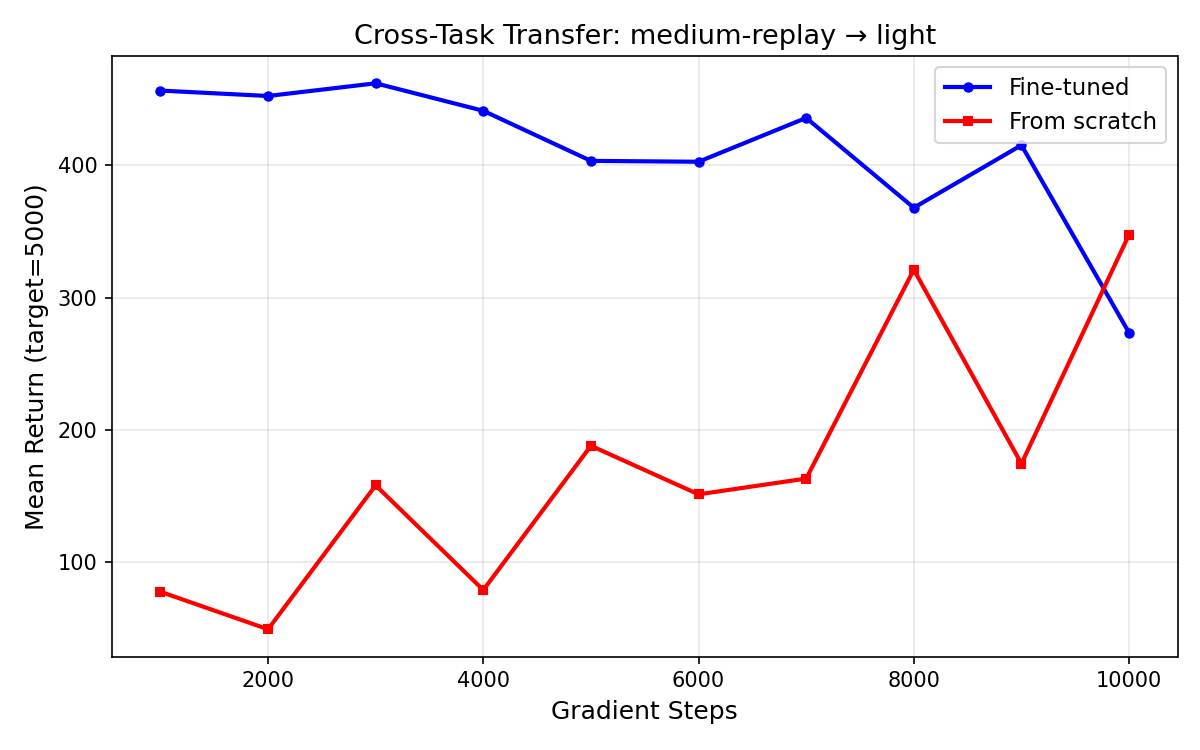
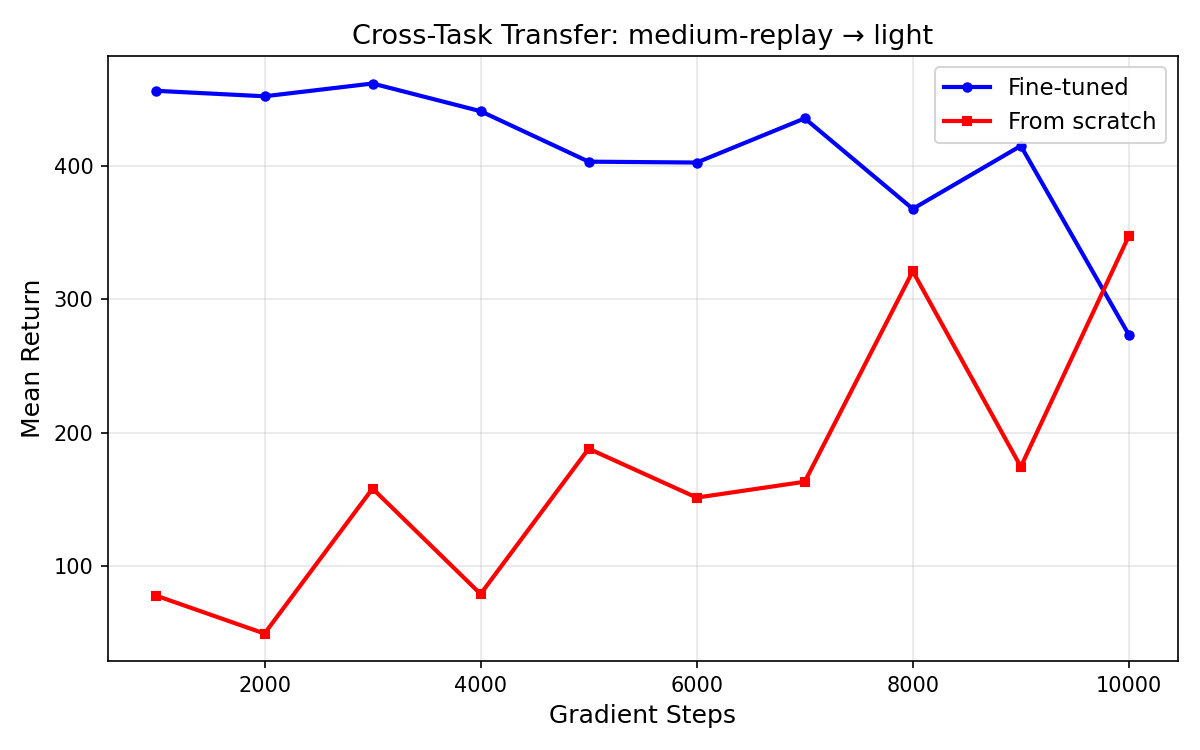
style: remove target parameter label from plot y-axes

diff --git a/gym/cross_task/plot_results.py b/gym/cross_task/plot_results.py
@@ -80,7 +80,7 @@ def plot_learning_curves(results, output_dir, target_return=5000):
                 markersize=4)
 
         ax.set_xlabel("Gradient Steps", fontsize=12)
-        ax.set_ylabel(f"Mean Return (target={target_return})", fontsize=12)
+        ax.set_ylabel("Mean Return", fontsize=12)
         ax.set_title(
             f"Cross-Task Transfer: {exp_data['source_dataset']} → "
             f"{exp_data['target_domain']}",
